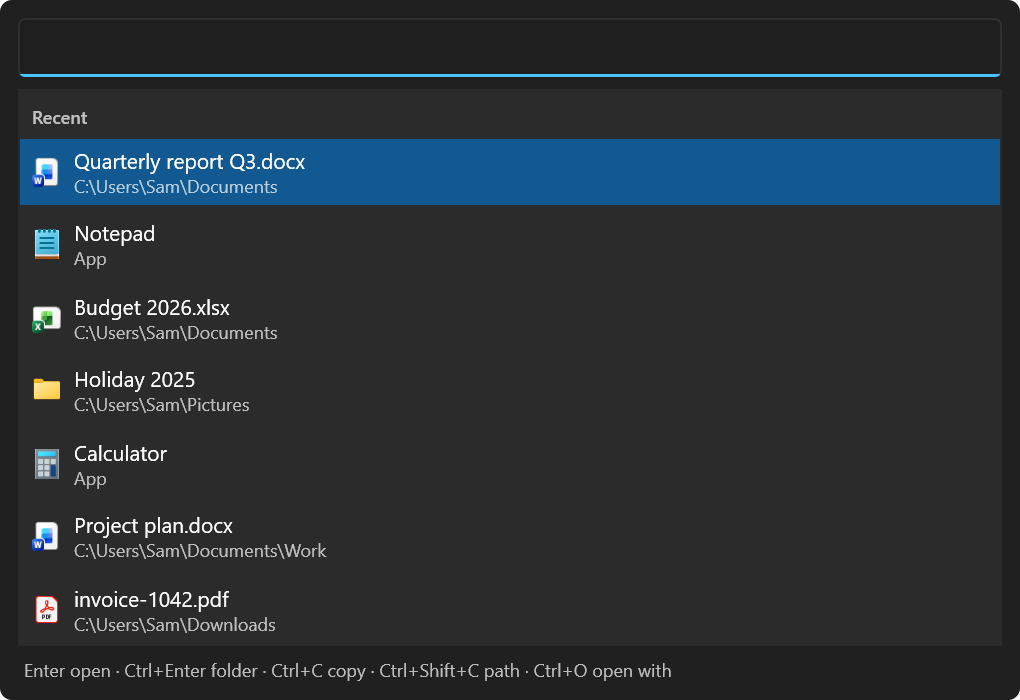
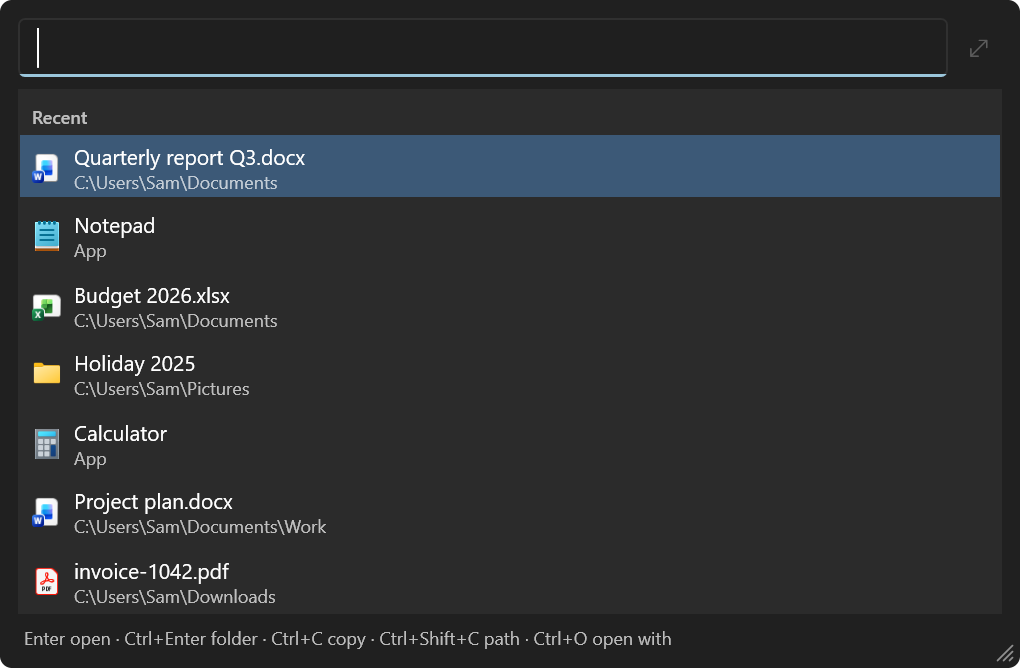
feat(hub): Findee screenshot at the 1.0 build

diff --git a/index.html b/index.html
@@ -705,7 +705,7 @@
       <figure data-scrub class="shot window wide">
         <picture class="pic">
           <source srcset="assets/findee-screenshot-dark.webp" media="(prefers-color-scheme: dark)">
-          <img src="assets/findee-screenshot.webp" alt="The Findee search box with an empty search, showing the recent files, folders, and apps, with Quarterly report Q3.docx selected and the key hints for open, open folder, and copy path along the bottom" loading="lazy" width="1020" height="700">
+          <img src="assets/findee-screenshot.webp" alt="The Findee search box with an empty search, showing the recent files, folders, and apps, with Quarterly report Q3.docx selected and the key hints for open, open folder, and copy path along the bottom" loading="lazy" width="1020" height="668">
         </picture>
       </figure>
     </section>
